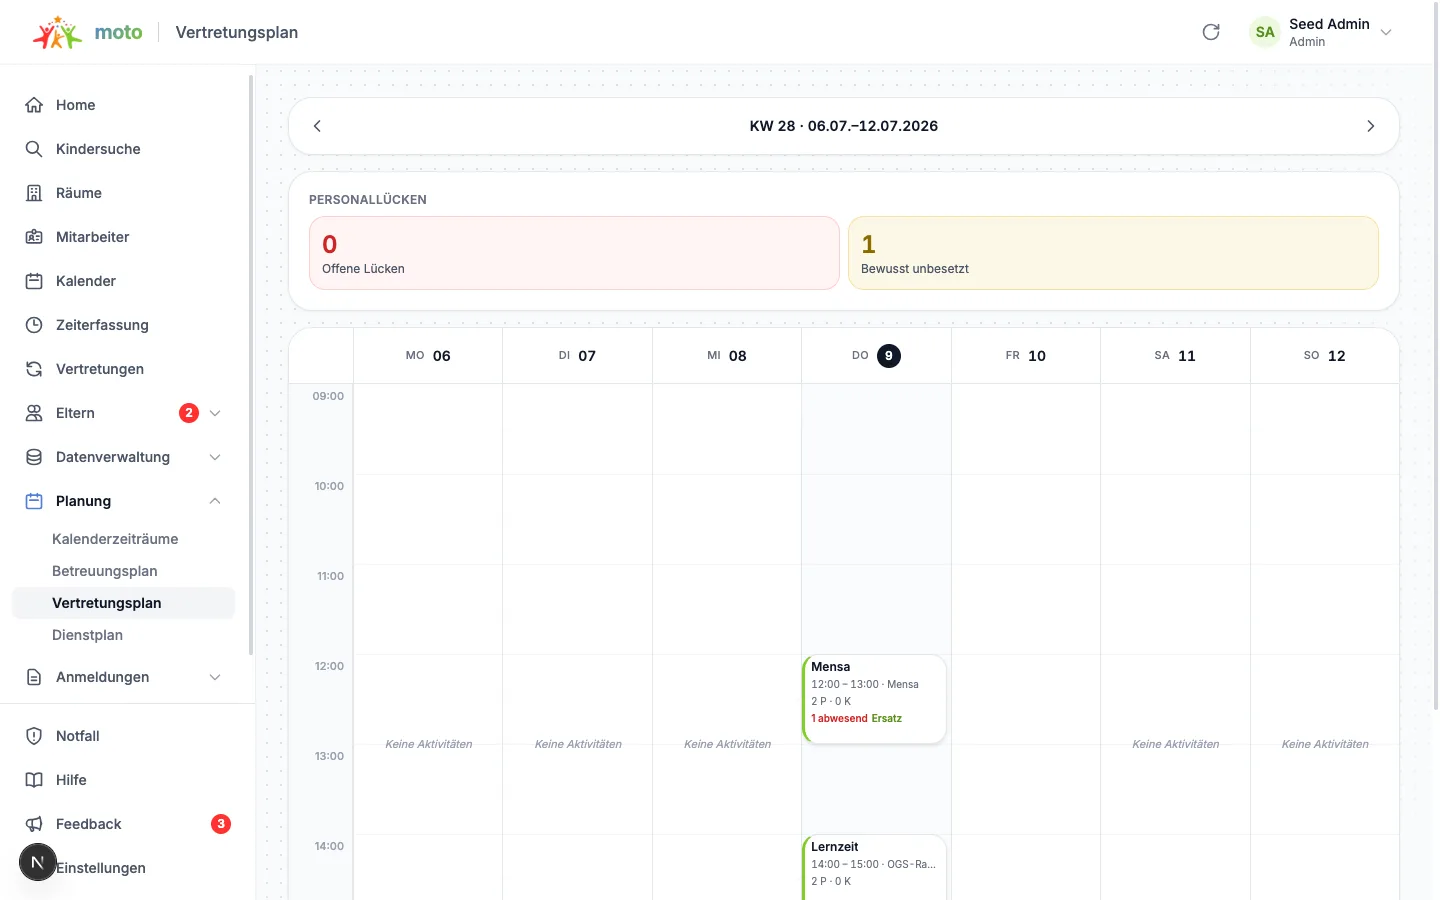
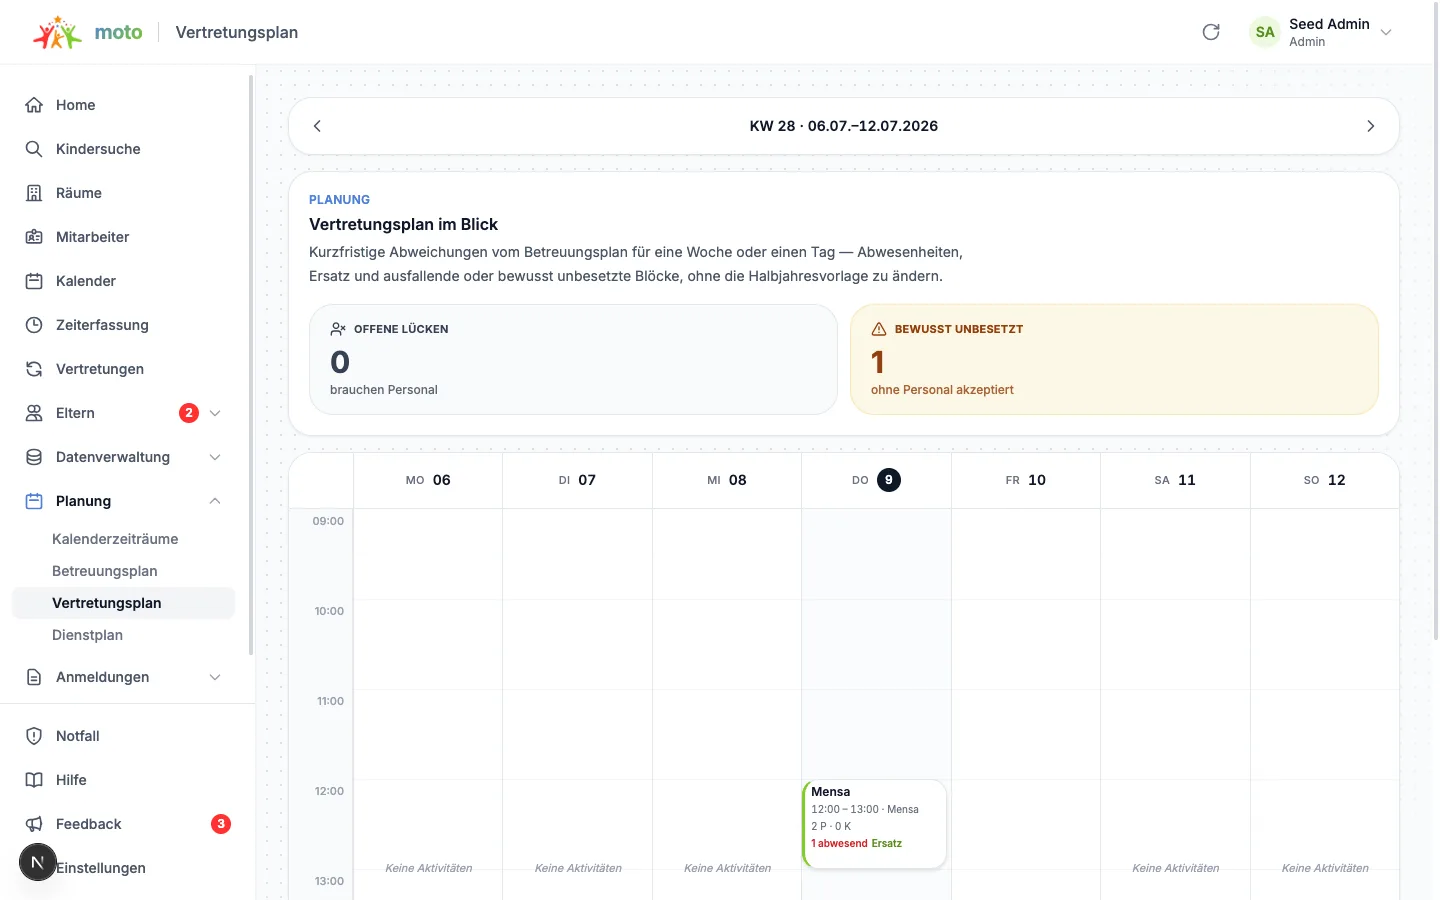
refactor(timetable): align Vertretungsplan layout with the Betreuungsplan (#1840)
The page started cold with the week nav (PageHeader is md:hidden), so it
didn't read like a sibling of the Betreuungsplan. Restructure the top to
match: week-nav toolbar → an "Überblick" card (TimetableOverview shell:
kicker + "Vertretungsplan im Blick" + description + two TimetableStatCards
"Offene Lücken" / "Bewusst unbesetzt") → the week grid. Reuses the same
stat-card component and tones as the base planner.

The issue's "Basisplan und Vertretungsansicht bewusst trennen" is about a
clearly distinguishable purpose (own route, own actions, deviation framing),
not a different visual shell — a shared layout is better for familiarity.
Guide text + screenshot updated to the new layout.

diff --git a/frontend/src/app/[tenant]/(protected)/vertretungsplan/page.tsx b/frontend/src/app/[tenant]/(protected)/vertretungsplan/page.tsx
@@ -11,7 +11,7 @@
  * per-block actions live in the SubstitutionSlideOver.
  */
 
-import { ChevronLeft, ChevronRight } from "lucide-react";
+import { ChevronLeft, ChevronRight, TriangleAlert, UserX } from "lucide-react";
 import { useSearchParams } from "next/navigation";
 import { useSession } from "next-auth/react";
 import { Suspense, useCallback, useMemo } from "react";
@@ -19,6 +19,7 @@ import { Suspense, useCallback, useMemo } from "react";
 import { Button } from "~/components/ui/button";
 import { PageHeader } from "~/components/ui/page-header/PageHeader";
 import { SubstitutionSlideOver } from "~/components/timetable/substitution-slide-over";
+import { TimetableStatCard } from "~/components/timetable/timetable-stat-card";
 import { timetableSurface } from "~/components/timetable/timetable-style";
 import { WeeklyCalendarGrid } from "~/components/timetable/weekly-calendar-grid";
 import { useToast } from "~/contexts/ToastContext";
@@ -33,7 +34,7 @@ import {
   getWeekRange,
   getWeekdays,
 } from "~/lib/timetable-helpers";
-import type { EnrichedInstance, GapInstance } from "~/lib/timetable-types";
+import type { EnrichedInstance } from "~/lib/timetable-types";
 
 const logger = createLogger({ component: "Vertretungsplan" });
 const HOUR_HEIGHT_PX = 90;
@@ -270,9 +271,10 @@ function VertretungsplanContent() {
         </Button>
       </div>
 
-      {(openGaps.length > 0 || acknowledgedGaps.length > 0) && (
-        <GapsSummary open={openGaps} acknowledged={acknowledgedGaps} />
-      )}
+      <VertretungsplanOverview
+        openCount={openGaps.length}
+        ackCount={acknowledgedGaps.length}
+      />
 
       <WeeklyCalendarGrid
         weekDays={weekDays}
@@ -309,33 +311,52 @@ function VertretungsplanContent() {
   );
 }
 
-function GapsSummary({
-  open,
-  acknowledged,
+// VertretungsplanOverview mirrors the Betreuungsplan's TimetableOverview so the
+// two planning pages share the same top-of-page shell (kicker + title +
+// description + two KPI stat cards). The purpose differs — this one tracks
+// staffing shortfalls, not planned counts.
+function VertretungsplanOverview({
+  openCount,
+  ackCount,
 }: {
-  open: GapInstance[];
-  acknowledged: GapInstance[];
+  openCount: number;
+  ackCount: number;
 }) {
   return (
-    <div className={`${timetableSurface} p-4 sm:p-5`}>
-      <h2 className="text-xs font-semibold tracking-wide text-gray-500 uppercase">
-        Personallücken
-      </h2>
-      <div className="mt-2 grid grid-cols-1 gap-2 sm:grid-cols-2">
-        <div className="rounded-xl border border-[#FF3130]/20 bg-[#FF3130]/5 p-3">
-          <div className="text-2xl font-semibold text-[#CC2626] tabular-nums">
-            {open.length}
-          </div>
-          <div className="text-xs text-gray-600">Offene Lücken</div>
-        </div>
-        <div className="rounded-xl border border-[#EAB308]/30 bg-[#EAB308]/10 p-3">
-          <div className="text-2xl font-semibold text-[#8A6D00] tabular-nums">
-            {acknowledged.length}
-          </div>
-          <div className="text-xs text-gray-600">Bewusst unbesetzt</div>
-        </div>
+    <section className="moto-content-surface rounded-2xl border p-4 shadow-sm backdrop-blur-md sm:p-5">
+      <div>
+        <p className="text-xs font-semibold tracking-wide text-[#5080D8] uppercase">
+          Planung
+        </p>
+        <h2 className="mt-1 text-base font-semibold text-gray-900">
+          Vertretungsplan im Blick
+        </h2>
+        <p className="mt-1 max-w-2xl text-sm leading-6 text-gray-600">
+          Kurzfristige Abweichungen vom Betreuungsplan für eine Woche oder einen
+          Tag — Abwesenheiten, Ersatz und ausfallende oder bewusst unbesetzte
+          Blöcke, ohne die Halbjahresvorlage zu ändern.
+        </p>
       </div>
-    </div>
+
+      <div className="mt-4 grid grid-cols-1 gap-3 sm:grid-cols-2">
+        <TimetableStatCard
+          size="lg"
+          icon={<UserX className="h-4 w-4" />}
+          label="Offene Lücken"
+          value={String(openCount)}
+          sublabel="brauchen Personal"
+          tone={openCount > 0 ? "danger" : "neutral"}
+        />
+        <TimetableStatCard
+          size="lg"
+          icon={<TriangleAlert className="h-4 w-4" />}
+          label="Bewusst unbesetzt"
+          value={String(ackCount)}
+          sublabel="ohne Personal akzeptiert"
+          tone={ackCount > 0 ? "warning" : "neutral"}
+        />
+      </div>
+    </section>
   );
 }
 

diff --git a/frontend/src/components/help/guide-data.ts b/frontend/src/components/help/guide-data.ts
@@ -705,7 +705,7 @@ export const appChapters: readonly GuideChapter[] = [
           "Führt kurzfristige Abweichungen vom Betreuungsplan für eine Woche oder einen Tag: Abwesenheiten, Ersatz sowie ausfallende oder bewusst unbesetzte Blöcke (nur für Admins).",
         steps: [
           "`Planung` -> `Vertretungsplan` öffnen. Die Wochenansicht zeigt dieselben Termine wie der Betreuungsplan, hier jedoch zum Anpassen kurzfristiger Vertretungen.",
-          "Oben zeigt `Personallücken`, wie viele Blöcke offen (ohne Personal) und wie viele bewusst unbesetzt sind.",
+          "Im Überblick `Vertretungsplan im Blick` zeigen `Offene Lücken` und `Bewusst unbesetzt`, wie viele Blöcke ohne Personal sind bzw. bewusst offen gelassen wurden.",
           "Einen Termin anklicken, um die Vertretungsansicht des Blocks zu öffnen. `Geplantes Personal` zeigt die Besetzung aus dem Betreuungsplan.",
           "Über `Abwesend melden` eine Person für den ganzen Tag als abwesend markieren. Anschließend unter `Ersatz eintragen` eine Ersatzperson wählen.",
           "Ist keine Ersatzperson verfügbar, den Block unter `Bewusst unbesetzt` mit optionalem Grund markieren; er zählt dann nicht mehr als offene Lücke.",
